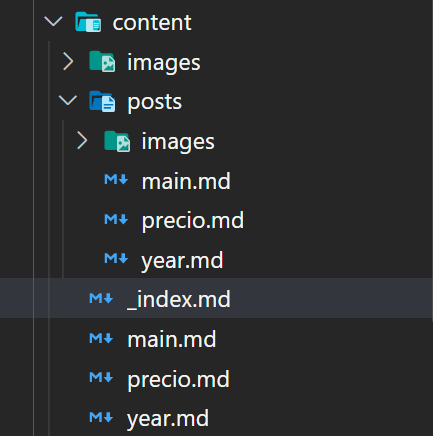
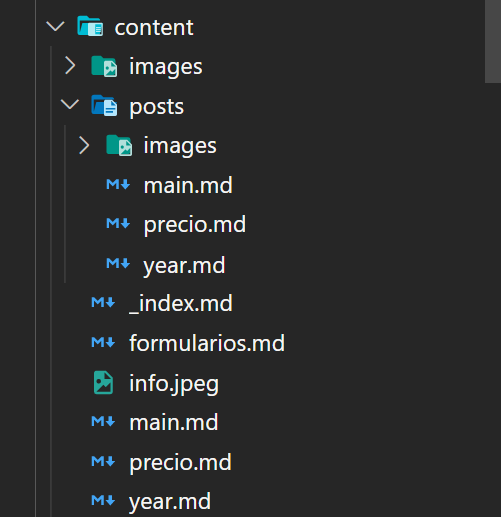
docs: Completa la doc para la presentación
Completar la documentación para la presentación del día 13

diff --git a/README.md b/README.md
@@ -138,9 +138,35 @@ Hemos elegido programar en VSCode por los siguientes motivos:
 3. Infintas extensiones desarrollados tanto por la comunidad como por empresas.
 4. Se puede utilizar para varios lenguajes de programación sin ningún tipo de dificultad.
 
-- MongoDBCompass: aplicación oficial de MongoDB Atlas que sirve para acceder a nuestra base de datos y hacer modificaciones tanto por GUI como por consola. 
+- MongoDBCompass: aplicación oficial de MongoDB Atlas que sirve para acceder a nuestra base de datos y hacer modificaciones tanto por GUI como por consola.
+
+- GitHub: GitHub es un proveedor para alojar proyectos utilizando el sistema de control de versiones Git. Se utiliza principalmente para la creación de código fuente de programas de ordenador. Al realizar un proyecto en Git el equipo debe decidir que **GitFlow** seguir. **¿Qué es GitFlow?** En la web de Atlassian encontramos la siguiente definición:
+
+> Gitflow es una especie de idea abstracta de un flujo de trabajo de Git. Esto quiere decir que ordena qué tipo de ramas se deben configurar y cómo fusionarlas. Explicaremos brevemente los objetivos de las ramas a continuación
+
+En este proyecto hemos utilizado la extensión *Conventional Commits* para tener un GitFlow adecuado y sencillo de comprender para el equipo. La disposición de las ramas es la siguiente:
+
+    - Rama main: rama predefinida al crearse el repositorio. Aquí añadimos lo que necesitábamos al principio.
+    - Rama develop: rama principal para el desarrollo del proyecto. Siempre que desarollamos una nueva **feature** (característica) la fusionamos a esta rama.
+    - Rama feature: las ramas feature las hemos ido creando por cada característica que desarrollábamos para el proyecto. Ejemplo: feature_hugo. Rama característica en la que se trabaja en hugo.
+![Git Graph](/images/git_graph.png)
+
+- Clockify: Clockify es una aplicación simple de seguimiento del tiempo y planilla de horarios que les permite a ti y a tu equipo realizar el seguimiento de las horas trabajadas en los proyectos. Y es gratuito.
+
 
 ### **BackEnd**
+#### **Testing**
+
+![Casos Test](/images/casos_test.png)
+
+Hemos realizado diez casos test que comprueban la fiabilidad de nuestro código. Al trabajar hemos aplicado la TDD: Test-Driven Development (desarrollo dirigido por tests) es una práctica de programación que consiste en escribir primero las pruebas (generalmente unitarias), después escribir el código fuente que pase la prueba satisfactoriamente y, por último, refactorizar el código escrito. 
+
+No siempre hemos hecho clean testing y hemos acabado recurriendo al dirty testing. Ya que a la hora de programar no siempre se nos ocurrían los casos test ideales para las funciones que estábamos programando.
+
+![Tox](/images/tox.png) 
+
+Estos son los requisitos que necesitamos tener instalados para que la aplicación funcione:
+![Requirements](/images/requirements.png)
 
 ### **FrontEnd**
 ![Web](/images/web_portada.png)
@@ -162,5 +188,80 @@ El FrontEnd de la web es generado automáticamente por Hugo. Para poder utilizar
                 - **main.md**: consulta de todos los items.
                 - **precio.md**: consulta de los items inferiores o igual a x precio.
                 - **year.md**: consulta de los items anteriores a x año.
+        - **formularios.md**: página que incluye los formularios que modifican la base de datos.
     - Ejecutamos el comando ``hugo server`` para inicializar la web.    
     ![Hugo directorios](/images/hugo_directorios.png)
+
+## Comparación Temporal
+
+![Tiempo](/images/tiempo.png)
+En este proyecto las estimaciones de tiempo las hemos realizado mediante tokens. Donde un token es equivalente a quince minutos de trabajo.
+
+Estimación inicial para cada épica y sus subtareas:
+
+1. El usuario quiere disponer de una BBDD con una estructura específica.
+- Estimación: 2 token
+- Usado: 1 token
+- Hemos tardado menos de lo esperado porque hemos usado la función "insertMany", que añade directamente todos los datos que el usuario desea en la estructura acordada anteriormente.
+
+2. El usuario quiere que los elementos de la BBDD sean accesibles.
+    - TAREA 2.1
+Tendremos que descargar la BBDD
+        - Estimación: 12 tokens
+Tiempo usado: 17 tokens
+Hemos tardado más de lo estimado porqué cuando queríamos acceder a la BBDD desde Python nos daba 'timeoutError'. Al final, después de investigar cual era el error (dirección IP errónea), nos pudimos conectar perfectamente y pudimos importar los documentos de la BBDD.
+    - TAREA 2.2
+Tendremos que pasar la BBDD a la función que la convierte en markdown.
+        - Estimación: 1 token
+        Tiempo usado: 3 tokens
+Hemos tardado más porqué hemos tenido que cambiar un poco la función que habíamos creado anteriormente (dict_md()), ya que lo que le pasábamos como input era una BBDD simulada. Y esta, no tenia exactamente el mismo formato que la BBDD original cuando la importamos.
+    - TAREA 2.3
+El usuario quiere acceder a documentos concretos de la BBDD.
+        - Estimación: 8 tokens
+    Tiempo usado: 9 tokens
+3. El usuario quiere pasar la BBDD a formato web.
+    - TAREA 3.1
+    Necesitamos crear el entorno de trabajo para poder programar las necesidades del usuario
+        - Estimación inicial: 1 token
+        - Estimación real: 3 token
+        - Hemos tardado un poco más de lo previsto porque hemos tenido que hacer la búsqueda de los archivos y carpetas necesarias para trabajar.
+    - TAREA 3.2
+    Necesitamos emularle al programa una BBDD para trabajar sin necesidad de la BBDD definitiva.
+        - Estimación inicial: 2 tokens.
+        - Estimación real: 1 token
+    - TAREA 3.3
+    Necesitamos pasar la BBDD a un archivo .md
+        - Estimación: 16 tokens
+        - Tiempo usado: 19 tokens.
+        - Nos hemos demorado ya que hemos tenido que informarnos sobre como iterar diccionarios anidados.
+    - TAREA 3.4
+    Poder abrir y escribir los ficheros md mediante programación
+        - Estimación: 8 tokens
+        - Tiempo usado: 6 tokens
+    - TAREA 3.5
+    Crear una única función que realice todas las otras funciones y nos enseñe la página web.
+        - Estimación: 4 tokens
+        - Tiempo usado: 12 tokens
+        - Se ha complicado más de lo esperado, porqué  cuando creábamos la función solo funcionaba para un único archivo markdown. Al final hemos modificado un poco las anteriores y simplemente llamando a las otras funciones desde un mismo archivo, donde, además, tenemos un función que lanza Hugo, ha funcionado.
+4. El usuario quiere crear la web con un generador estático de contenidos.
+    - TAREA 4.1
+    Tenemos que instalar Hugo.
+        - Estimación: 3 tokens
+        - Tiempo usado: 3 tokens
+        - Hemos seguido el tutorial y la única complicación que hemos tenido es que desde la consola de Windows nos daba error.
+    - TAREA 4.2
+    Tenemos que aprender a utilizar Hugo
+        - Estimación: 6 tokens
+        - Tiempo usado: 21 tokens
+        - Nos alejamos bastante de lo estimado porqué para aprender a utilizar Hugo de manera correcta, no solo nos hemos documentado, sino que también hemos estado practicando.
+    - TAREA 4.3
+    Generar una página web mediante Hugo, a partir de un archivo markdown
+        - Estimación: 4 tokens
+        - Tiempo usado: 4 tokens
+5. El usuario quiere una página web que contenga los elementos de la BBDD.
+    - Tarea 5.1
+    Modificar el template para darle un estilo único
+        - Estimación: 12 token
+        - Real: 14 token
+        - Nos hemos demorado ya que no entendíamos muy bien cómo modificar el CSS
+
